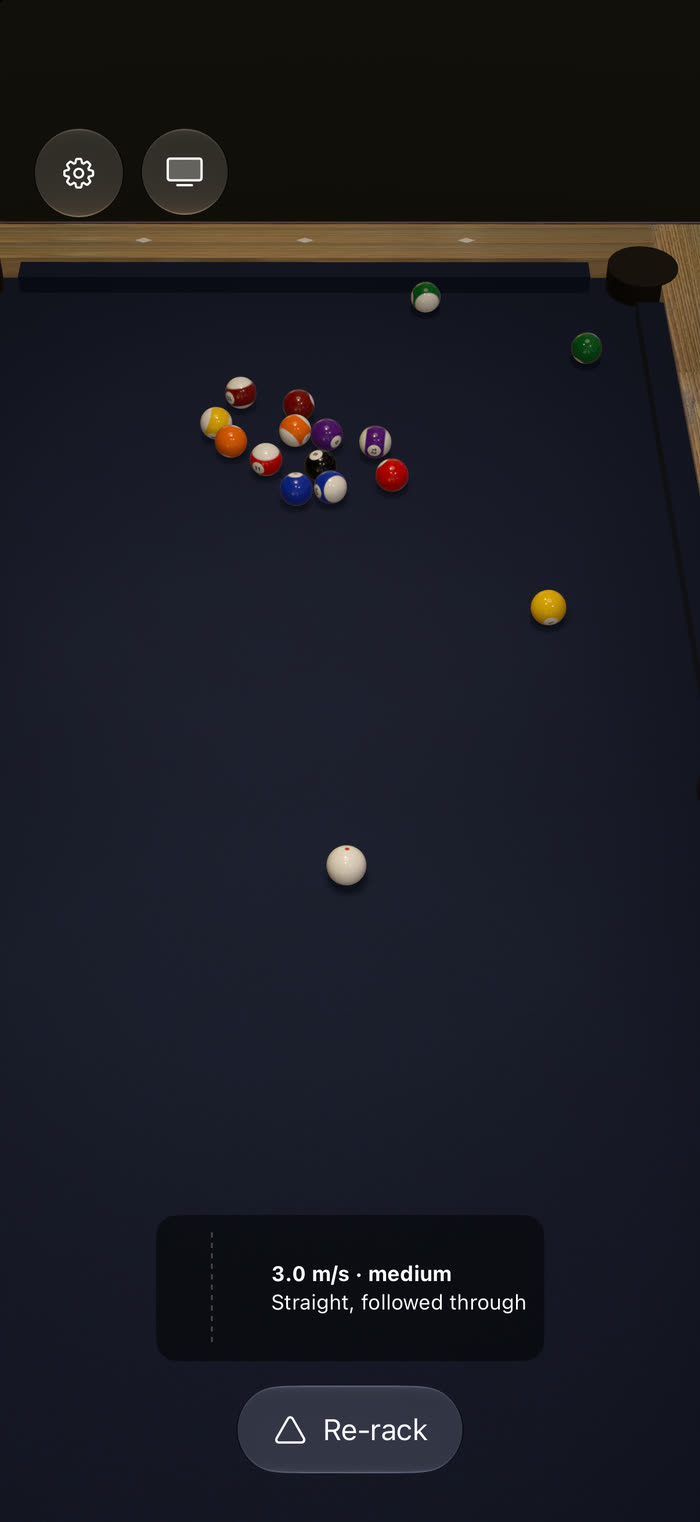
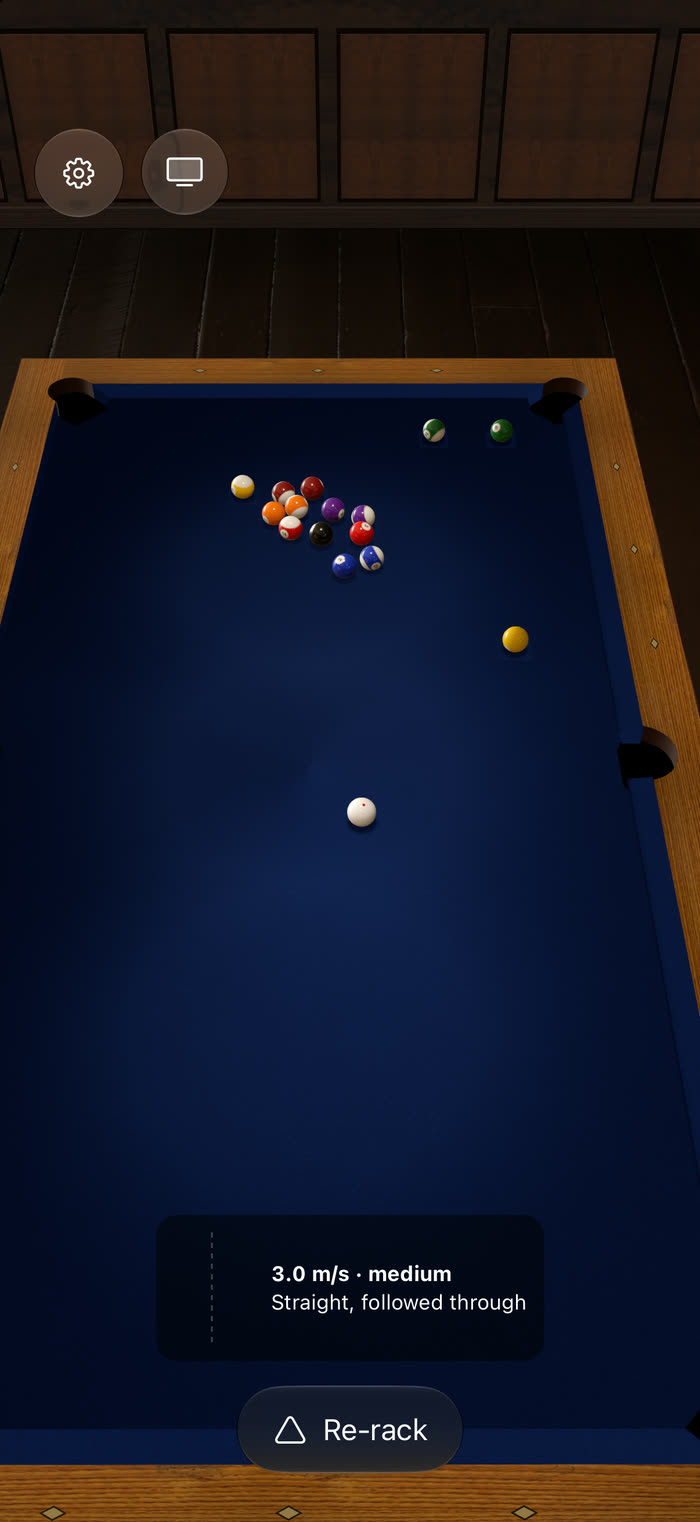
Refresh: the game's new look (hall textures, pockets cut to the physics, panelled room), TV framing and hand-off band, easy or real pockets

diff --git a/index.html b/index.html
@@ -259,6 +259,7 @@ ul.ticks li::before { content: ""; position: absolute; left: 0; top: .5em; width
       <p style="color:var(--soft);max-width:52ch">You don't swipe a power meter. You pull back on the stroke pad and push through, like a real cue, and the game reads how straight you were and whether you followed through. After every shot it tells you.</p>
       <div class="card"><div class="who">After the shot <span>cue ball speed</span></div><p>3.0 m/s · medium. Straight, followed through.</p></div>
       <p style="color:var(--soft);max-width:52ch;margin:0">Walk around the table to line up, set the cue's angle, put spin on with the tip, and chalk the cue. Watch any shot again from the overhead view.</p>
+      <p style="color:var(--soft);max-width:52ch;margin:0">The table is dressed from photos of a real pool hall: the cloth's nap, the oak rails, the hall beyond the doorway. The pockets are cut to the same size the physics plays.</p>
     </div>
     <div class="phones">
       <img src="img/phone-aim.jpg" alt="Aiming down the cue: spin pad, cue angle and the stroke pad that says pull back for power, push straight through" loading="lazy" width="700" height="1522">
@@ -276,6 +277,7 @@ ul.ticks li::before { content: ""; position: absolute; left: 0; top: .5em; width
         <li>Solids and stripes and the wild moments come from the game itself, the same way you'd tag them at a real table.</li>
         <li>Practice with the table to yourself: no rules, ball in hand whenever you want it.</li>
         <li>Rematch with the winner breaking, and a stats card when the game ends.</li>
+        <li>Easy pockets, or real ones, where a ball that clips a jaw can rattle out.</li>
       </ul>
     </div>
     <figure class="shot phone"><img src="img/phone-play.jpg" alt="The Play tab: 8-ball or 9-ball, pass and play with a switch to play a set for the book, practice, and Play on Apple TV" loading="lazy" width="700" height="1522"><figcaption>iPhone · the Play tab</figcaption></figure>
@@ -289,10 +291,10 @@ ul.ticks li::before { content: ""; position: absolute; left: 0; top: .5em; width
     </div>
     <div class="grid">
       <div class="stack">
-        <img src="img/tv-rack.jpg" alt="The Apple TV table with the 9-ball rack, waiting for players to join with code 4242" loading="lazy" width="1600" height="900">
-        <img src="img/tv-break.jpg" alt="The Apple TV after the break: nothing down, Player 1's shot, pass the phone and tap Ready" loading="lazy" width="1600" height="900">
+        <img src="img/tv-rack.jpg" alt="The Apple TV table in a panelled room with the 9-ball racked and one phone joined with code 4242" loading="lazy" width="1600" height="900">
+        <img src="img/tv-break.jpg" alt="The Apple TV after the break: nothing down, pass to Player 1, then tap Ready, with the table still in view" loading="lazy" width="1600" height="900">
       </div>
-      <img class="remote" src="img/phone-remote.jpg" alt="The iPhone as the controller: move and look pads with shoot buttons" loading="lazy" width="700" height="1522">
+      <img class="remote" src="img/phone-remote.jpg" alt="The iPhone as the controller: move and look sticks with shoot buttons" loading="lazy" width="700" height="1522">
     </div>
     <div class="join" role="img" aria-label="An iPhone joins the Apple TV on the home network using a four-digit code">
       <div class="dev"><b>iPhone</b><small>aim, stroke, spin</small></div>
